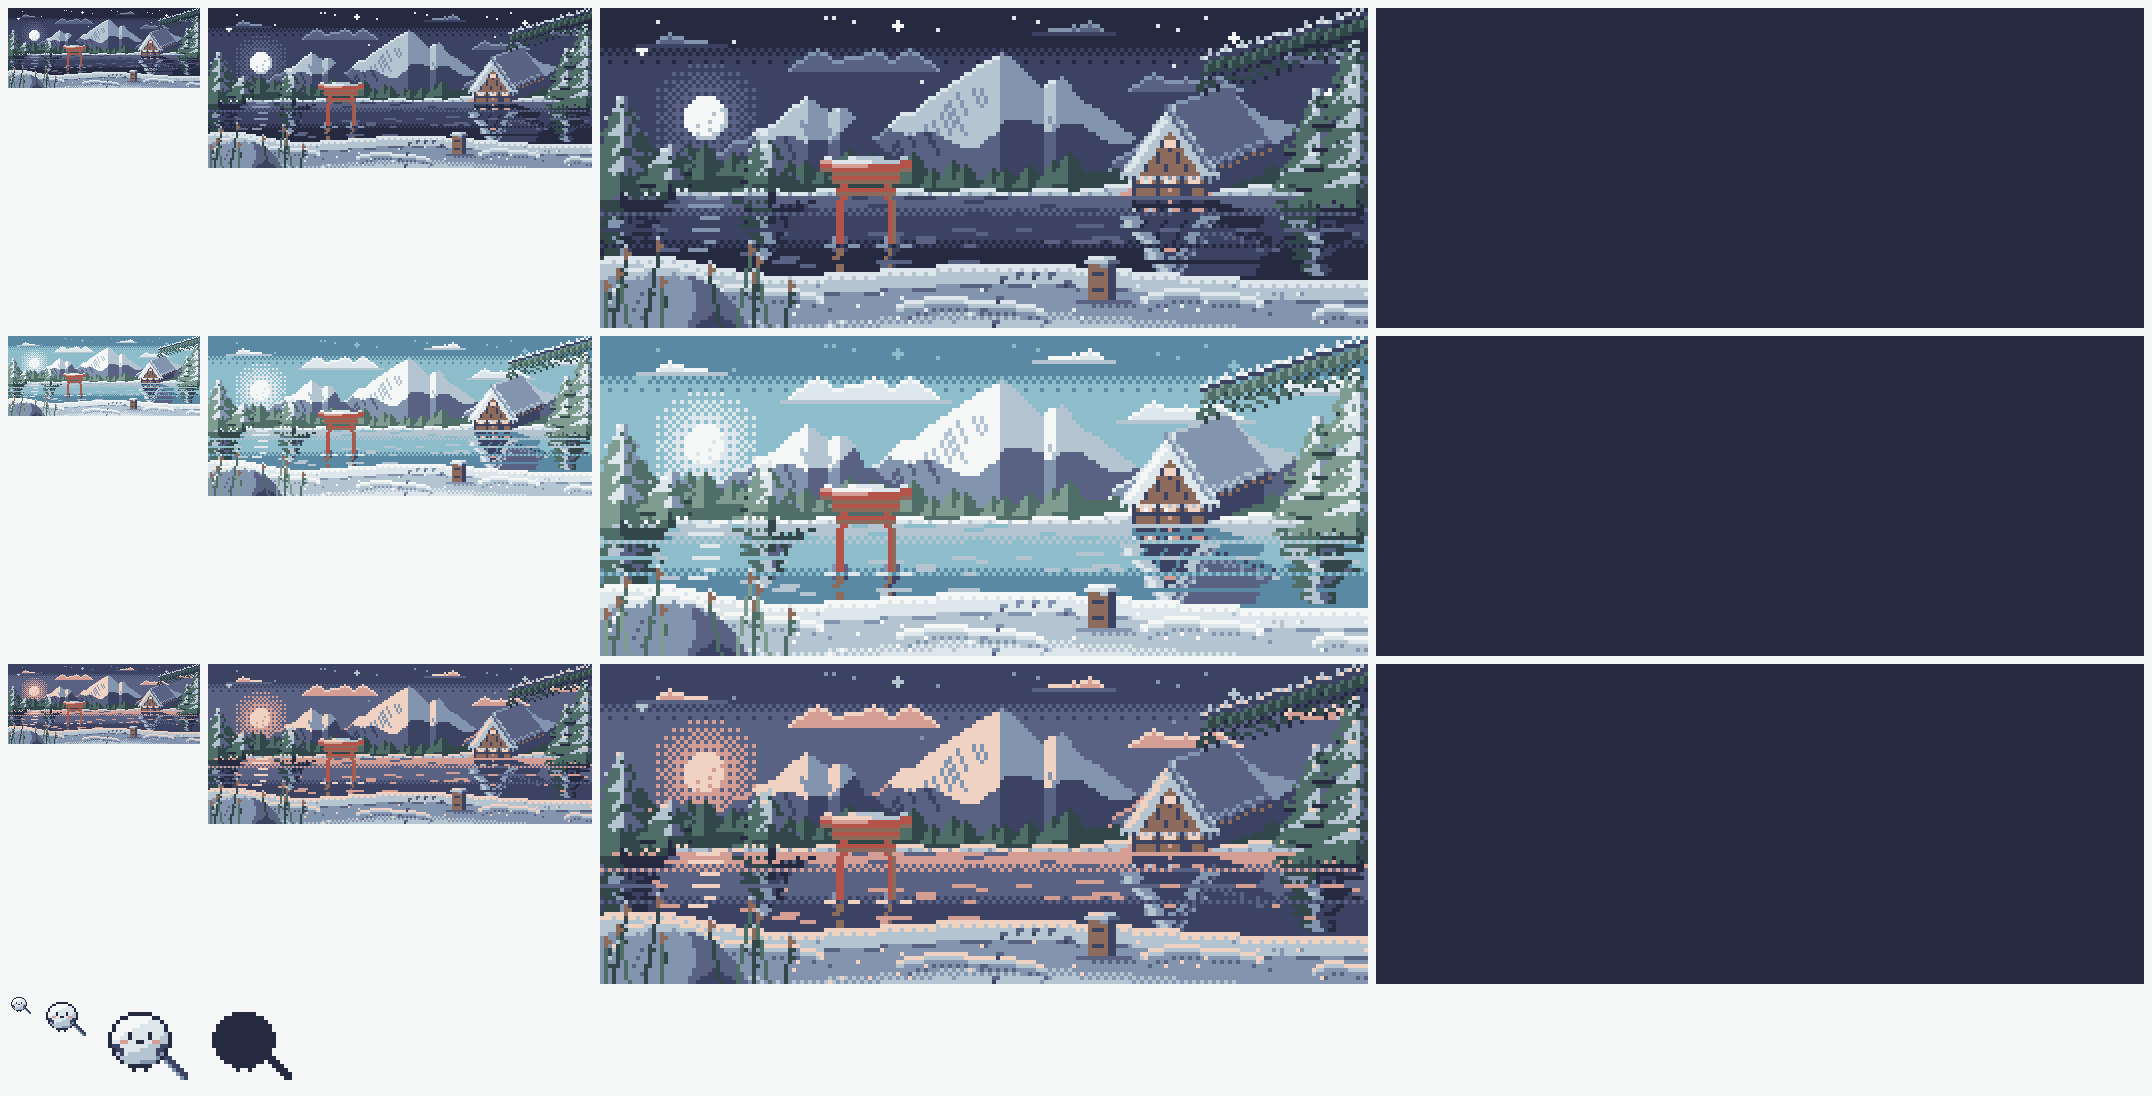
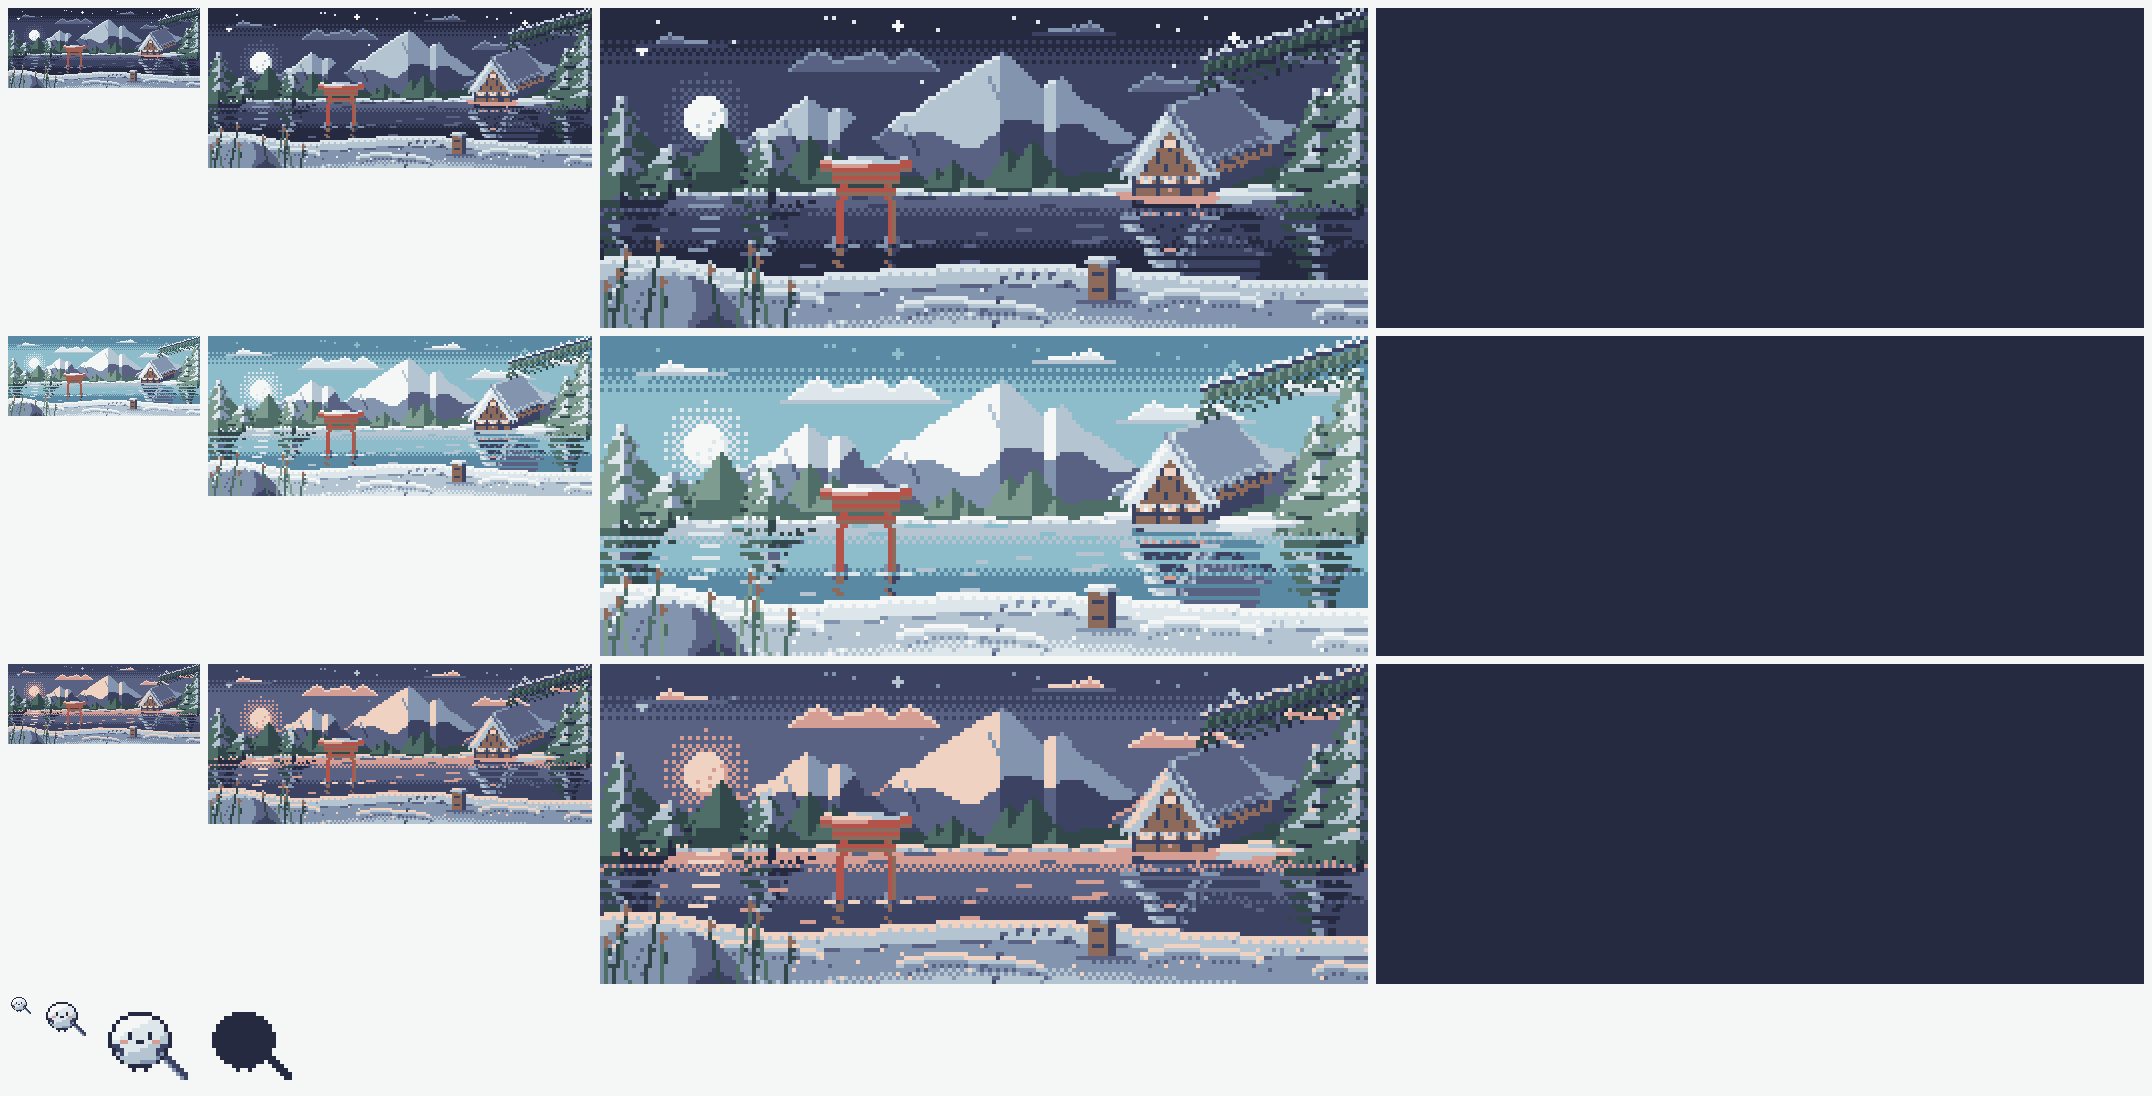
Scene review fixes: stepped narrow dither, calmer lake, fewer gullies, forest clumps, snow spit and light pool under the house

diff --git a/art/scene_build.py b/art/scene_build.py
@@ -65,16 +65,16 @@ def sky(A):
     for y in range(0, 44):
         for x in range(W):
             r = 'sky0'
-            if y >= 14 or (y >= 8 and dith(x, y, (y - 8) / 6)): r = 'sky1'
-            if y >= 41 or (y >= 33 and dith(x, y, (y - 33) / 8)): r = 'sky2'
+            if y >= 14 or (y >= 8 and dith(x, y, ((y - 8) // 2 + 1) / 4)): r = 'sky1'
+            if y >= 42 or (y >= 36 and dith(x, y, ((y - 36) // 2 + 1) / 4)): r = 'sky2'
             put(A, x, y, r)
     # moon, upper left, with a graduated dither halo
     cx, cy, rr = 26, 27, 5
     for y in range(cy - 14, cy + 15):
         for x in range(cx - 14, cx + 15):
             d = math.hypot(x - cx, y - cy)
-            if d > rr + 0.5 and d <= rr + 9 and is_(A, x, y, 'sky0', 'sky1', 'sky2'):
-                t = .75 if d <= rr + 3 else .5 if d <= rr + 6 else .25
+            if d > rr + 0.5 and d <= rr + 6 and is_(A, x, y, 'sky0', 'sky1', 'sky2'):
+                t = .5 if d <= rr + 3 else .25
                 if dith(x, y, t): put(A, x, y, 'halo')
     for y in range(cy - rr - 1, cy + rr + 2):
         for x in range(cx - rr - 1, cx + rr + 2):
@@ -119,10 +119,10 @@ def mountain(A, pts, seed, base=46):
         if lit and slope < 0: put(A, x, top[x], 'rim' if top[x] >= SNOWLINE(x) else 'sn_hi')
     # strata and gullies: short 1px diagonals running down-right in shade colour
     g = random.Random(seed + 1)
-    for _ in range(40):
-        x = g.randint(pts[0][0] + 4, pts[-1][0] - 4)
-        if top[x] >= base - 6: continue
-        y = top[x] + g.randint(2, 9); n = g.randint(4, 9)
+    for _ in range(6):
+        x = g.randint(pts[0][0] + 6, pts[-1][0] - 6)
+        if top[x] >= base - 10: continue
+        y = top[x] + g.randint(2, 4); n = g.randint(8, 13)
         for i in range(n):
             if is_(A, x + i // 2, y + i, 'rock_l', 'snow_fl'): put(A, x + i // 2, y + i, 'rock_s' if is_(A, x + i // 2, y + i, 'rock_l') else 'snow_fs')
 
@@ -141,9 +141,11 @@ def forest(A):
     for x in range(W):
         for y in range(top[x], 47): put(A, x, y, 'hill')
     g = random.Random(21)
-    for x in range(2, W, 5):
-        if 118 <= x <= 176: continue                                    # leave room for the house
-        mini_pine(A, x + g.randint(-1, 1), top[x] + 1, g.randint(5, 9))
+    for gx, n in ((12, 4), (52, 3), (84, 5), (108, 3), (186, 3)):                  # clumps of three or four, uneven heights, gaps between
+        for i in range(n):
+            x = gx + i * g.randint(3, 6)
+            if 118 <= x <= 176: continue
+            mini_pine(A, x, top[min(x, W - 1)] + 1, g.randint(4, 12))
 
 # ---------------------------------------------------------------- lake
 BANK = lambda x: int(round(66 + 2 * math.sin(x / 24 + .5) - 6 * math.exp(-((x - 12) / 22) ** 2)))
@@ -151,14 +153,14 @@ def lake(A):
     for x in range(W):
         for y in range(46, BANK(x)):
             r = 'w_far'
-            if y >= 52 or (y >= 48 and dith(x, y, (y - 48) / 4)): r = 'w_mid'
-            if y >= 61 or (y >= 57 and dith(x, y, (y - 57) / 4)): r = 'w_near'
+            if y >= 52 or (y >= 49 and dith(x, y, (y - 48) / 4)): r = 'w_mid'
+            if y >= 61 or (y >= 58 and dith(x, y, (y - 57) / 4)): r = 'w_near'
             put(A, x, y, r)
     # moonlit glints under the moon (the animated ones are added in scene.json)
     for x, y, w in ((24, 47, 6), (22, 49, 9), (25, 52, 5), (23, 55, 7), (26, 58, 3), (22, 60, 5)):
         for i in range(w): put(A, x + i, y, 'glint')
     g = random.Random(5)
-    for _ in range(70):                                                  # calm surface: sparse 1px ripples
+    for _ in range(34):                                                  # calm surface: sparse 1px ripples
         x, y = g.randint(0, W - 6), g.randint(47, 64)
         if is_(A, x, y, 'w_far', 'w_mid', 'w_near'):
             for i in range(g.randint(3, 7)): put(A, x + i, y, 'w_far' if y > 53 else 'w_mid' if y > 49 else 'w_mid')
@@ -173,7 +175,7 @@ def reflect(A, L, base, shear=1):
             v = L[y, x]
             if not v: continue
             ry = base + (base - y) + 1
-            if ry >= H or ry % 4 == 3: continue
+            if ry >= H or ry % 3 == 2: continue
             sx = x + (0, shear, 0, -shear)[(ry // 2) % 4]
             if 0 <= sx < W and ry < BANK(sx) and is_(A, sx, ry, 'w_far', 'w_mid', 'w_near', 'glint'): put(A, sx, ry, REFL.get(inv[v], 'w_near'))
 
@@ -184,6 +186,12 @@ def shore(A):
         for y in range(lip, 47):
             put(A, x, y, 'sn_hi' if y == lip else 'sn_l' if y == 46 or x % 7 else 'sn_m')
         if x % 5 == 2: put(A, x, 46, 'sn_m')
+
+def spit(A):
+    for y in range(46, 50):
+        for x in range(HOUSE_X - 8, HOUSE_X + 40):
+            e = (x - (HOUSE_X + 16)) / 24
+            if y - 46 <= 3 * (1 - e * e) and is_(A, x, y, 'w_far', 'w_mid', 'sn_hi', 'sn_l', 'sn_m'): put(A, x, y, 'sn_hi' if y == 46 else 'sn_l' if y < 49 else 'sn_m')
 
 def pine(L, cx, base, h, seed, w_scale=1.0):
     """Irregular snow-laden fir: uneven tiers, drooping ragged boughs, snow lit on the left and clumped on top, dark under each tier."""
@@ -226,10 +234,12 @@ def house(L):
     def P(pts, r): poly(L, pts, r)
     P([(x0 + W1, yb - HW), (x0 + W1 + DX, yb - HW + DY), (x0 + W1 + DX, yb + DY), (x0 + W1, yb)], 'wood_s')        # right wall, in shade
     P([(ax, ay), (ax + DX, ay + DY), (ex + DX, ey + DY), (ex, ey)], 'thatch_s')                                    # side roof: straw...
-    P([(ax, ay), (ax + DX, ay + DY), (ex + DX, ey + DY - 3), (ex - 2, ey - 3)], 'sn_s')                              # ...under a heavy shaded snow load
+    P([(ax, ay), (ax + DX, ay + DY), (ex + DX, ey + DY - 4), (ex - 2, ey - 4)], 'sn_s')                              # ...under a heavy shaded snow load
     for i in range(DX + 1):                                                                                          # lit crest along the ridge, ragged lower lip
         put(L, ax + i, ay + round(i * DY / DX), 'sn_m')
-        y = ey - 3 - round(i * 5 / DX) + (1 if i % 3 == 0 else 0); put(L, ex - 2 + i, y, 'sn_m'); put(L, ex - 2 + i, y + 1, 'sn_s')
+        y = ey - 4 - round(i * 5 / DX) + (1 if i % 3 == 0 else 0); put(L, ex - 2 + i, y, 'sn_m'); put(L, ex - 2 + i, y + 1, 'sn_s')
+    for i in range(0, DX + 1):
+        for k in range(3): put(L, ex + i, ey - round(i * 5 / DX) - k, 'thatch' if (i + k) % 3 else 'thatch_s')
     for i in range(0, DX + 1, 2): put(L, ex + i, ey - round(i * 5 / DX) - 1, 'thatch'); put(L, ex + i + 1, ey - round(i * 5 / DX) - 2, 'thatch_s')
     rect(L, x0, yb - HW, x0 + W1, yb, 'wood')                                                                        # front wall, timber frame
     for px_ in range(x0, x0 + W1 + 1, 6): rect(L, px_, yb - HW, px_, yb, 'wood_s')
@@ -253,10 +263,10 @@ def house(L):
 
 def pool(A):
     """Stepped light pool on the snow under the windows: palette colours only."""
-    for r, (cx, cy, hw, hh) in (('pool0', (HOUSE_X + 8, 46, 11, 2)), ('pool1', (HOUSE_X + 8, 46, 6, 1))):
+    for r, (cx, cy, hw, hh) in (('pool0', (HOUSE_X + 8, 47, 13, 3)), ('pool1', (HOUSE_X + 8, 47, 7, 2))):
         for y in range(cy - 1, cy + hh + 1):
             for x in range(cx - hw, cx + hw + 1):
-                if 0 <= y < 47 and ((x - cx) / hw) ** 2 + ((y - cy) / max(1, hh)) ** 2 <= 1 and is_(A, x, y, 'sn_l', 'sn_m', 'sn_hi', 'sn_s'): put(A, x, y, r)
+                if 0 <= y < 50 and ((x - cx) / hw) ** 2 + ((y - cy) / max(1, hh)) ** 2 <= 1 and is_(A, x, y, 'sn_l', 'sn_m', 'sn_hi', 'sn_s'): put(A, x, y, r)
 
 # ---------------------------------------------------------------- torii in the shallows
 def torii(L, cx, wl):
@@ -358,7 +368,7 @@ def branch(A):
 # ---------------------------------------------------------------- compose
 def build():
     A = new()
-    sky(A); peaks(A); forest(A); lake(A); shore(A)
+    sky(A); peaks(A); forest(A); lake(A); shore(A); spit(A)
     ho = new(); house(ho)
     p1, p2, p3, p4, p5 = new(), new(), new(), new(), new()
     pine(p1, 179, 47, 26, 1); pine(p2, 189, 51, 42, 2); pine(p3, 5, 49, 26, 3, 1.1); pine(p4, 42, 47, 15, 4); pine(p5, 17, 47, 14, 5, .9)
